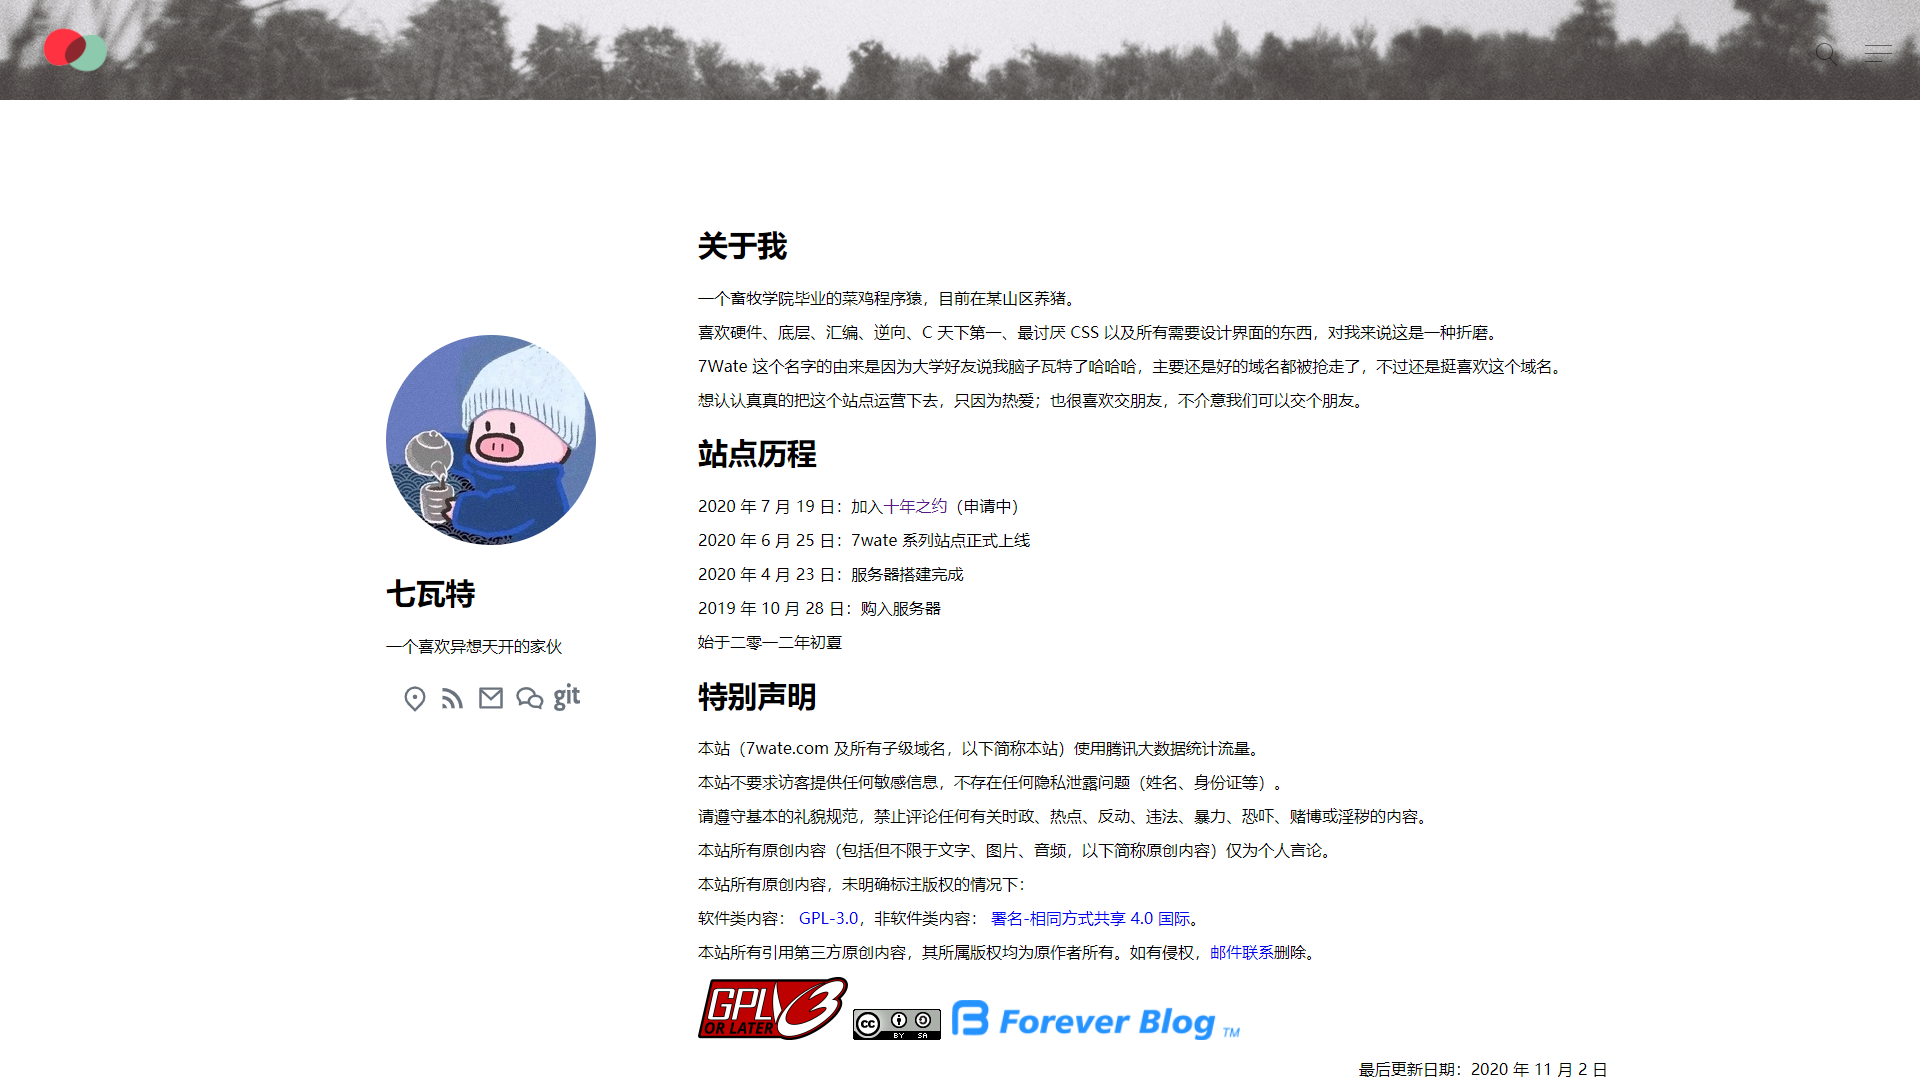
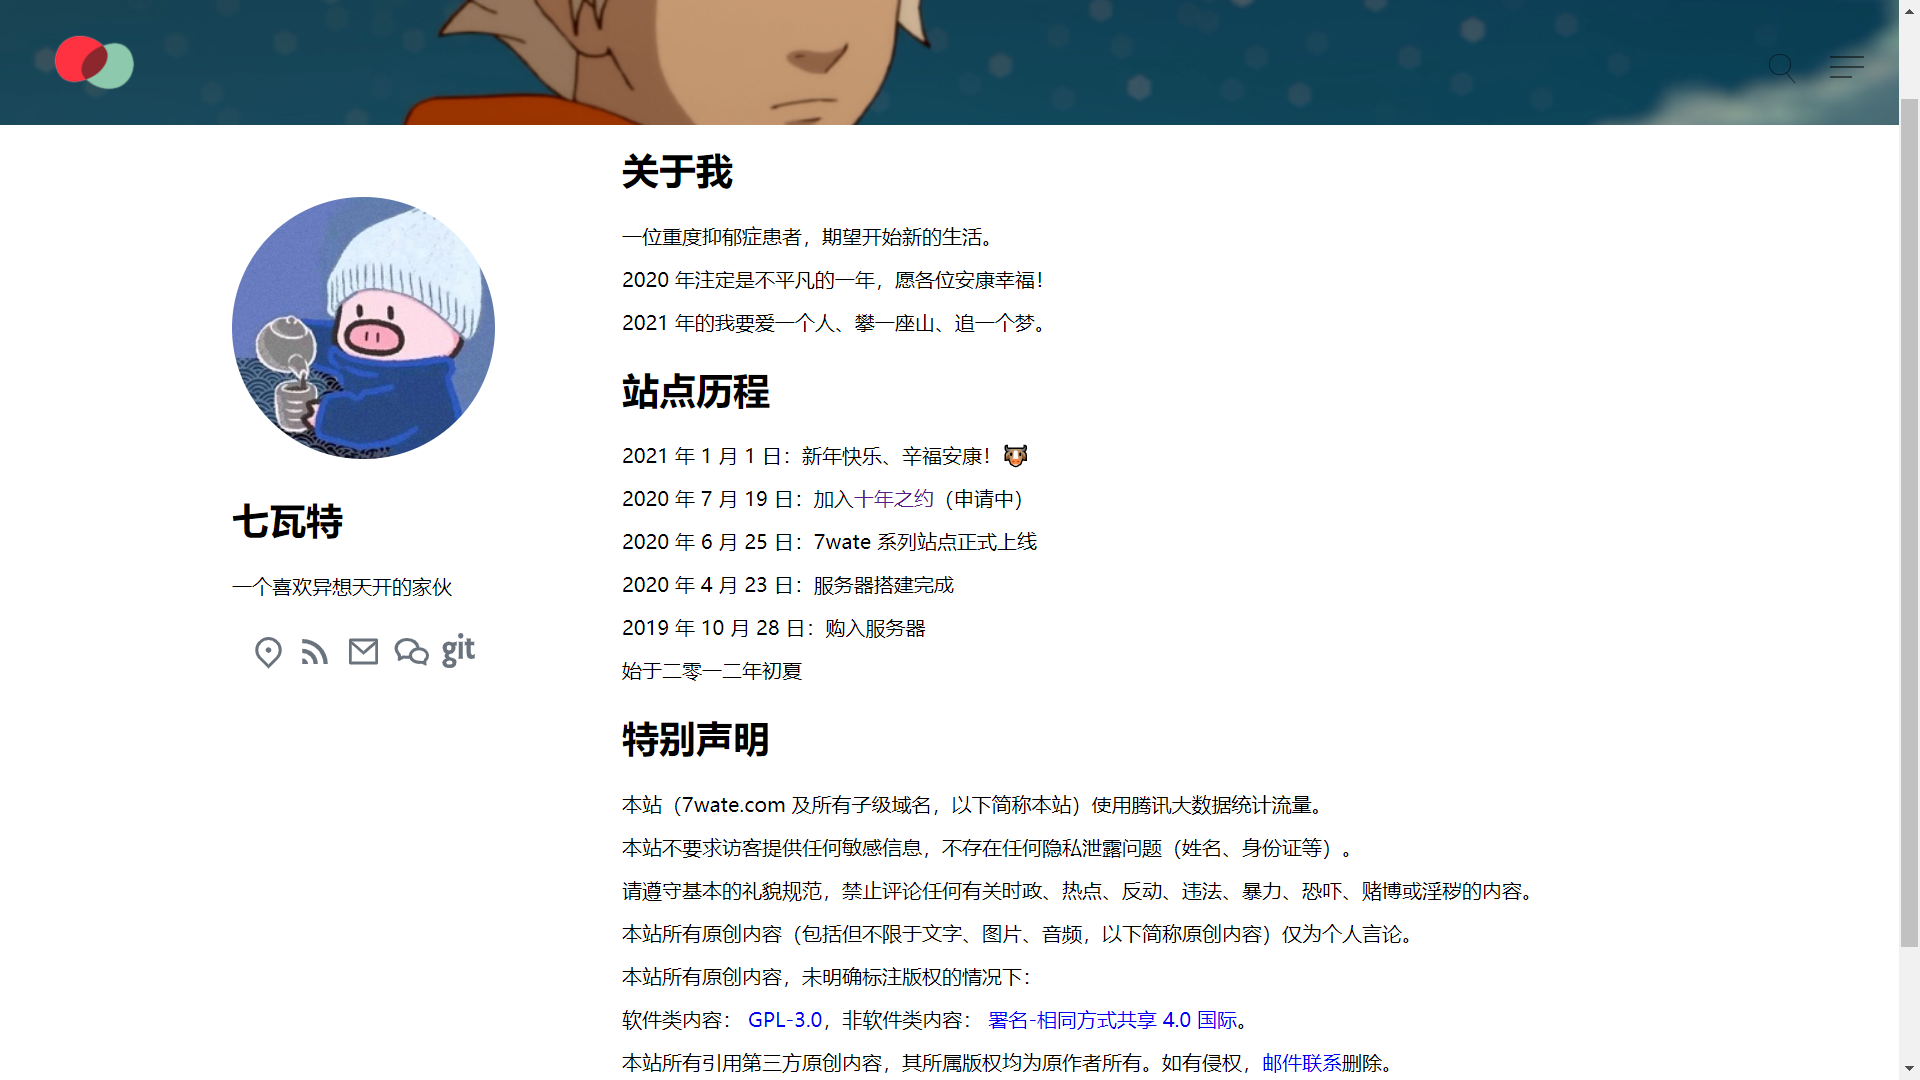
6.0

Changed region(s): [[0.0938, 0.1833, 0.8438, 1.0], [0.0, 0.0, 1.0, 0.8861], [0.2188, 0.6417, 0.3125, 0.6722]]

diff --git a/index.html b/index.html
@@ -80,11 +80,11 @@
             </article>
             <article class="right">
                 <h2>关于我</h2>
-                <p>一个畜牧学院毕业的菜鸡程序猿，目前在某山区养猪。</p>
-                <p>喜欢硬件、底层、汇编、逆向、C 天下第一、最讨厌 CSS 以及所有需要设计界面的东西，对我来说这是一种折磨。</p>
-                <p>7Wate 这个名字的由来是因为大学好友说我脑子瓦特了哈哈哈，主要还是好的域名都被抢走了，不过还是挺喜欢这个域名。</p>
-                <p>想认认真真的把这个站点运营下去，只因为热爱；也很喜欢交朋友，不介意我们可以交个朋友。</p>
+                <p>一位重度抑郁症患者，期望开始新的生活。</p>
+                <p>2020 年注定是不平凡的一年，愿各位安康幸福！</p>
+                <p>2021 年的我要爱一个人、攀一座山、追一个梦。</p>
                 <h2>站点历程</h2>
+                <p>2021 年 1 月 1 日：新年快乐、辛福安康！🐮</p>
                 <p>2020 年 7 月 19 日：加入<a target="_blank" href="https://www.foreverblog.cn/">十年之约</a>（申请中）</p>
                 <p>2020 年 6 月 25 日：7wate 系列站点正式上线</p>
                 <p>2020 年 4 月 23 日：服务器搭建完成</p>
@@ -111,7 +111,7 @@
                 <a target="_blank" href="https://www.foreverblog.cn/"> <img
                         src="https://img.foreverblog.cn/logo_en_default.png" alt=""
                         style="width:auto;height:40px;margin-left: 7px;"> </a>
-                <p style="text-align: right;">最后更新日期：2020 年 11 月 2 日</p>
+                <p style="text-align: right;">最后更新日期：2020 年 12 月 17 日</p>
             </article>
         </div>
     </main>
@@ -132,7 +132,7 @@
         </ul>
     </menu>
     <footer>
-        <span>© 2020 7Wate . 豫 ICP 备 18024405 号</span></footer>
+        <span>© 2021 7Wate . 豫 ICP 备 18024405 号</span></footer>
     <background></background>
     <script>
         function toggle() {

diff --git a/css/background.css b/css/background.css
@@ -21,7 +21,7 @@ background {
 
 background {
 	transition: all 700ms ease-out;
-	background-position: 52%;
+	background-position: 30%;
 	background-image: url(../img/bg.png);
 	background-repeat: no-repeat;
 }

diff --git a/README.md b/README.md
@@ -7,6 +7,8 @@
 ![关于](2.png)
 
 ## 历程
+2020 年 12 月 17 日：快乐
+
 2020 年 11 月 2 日：她
 
 2020 年 9 月 2 日：阿甘正传
